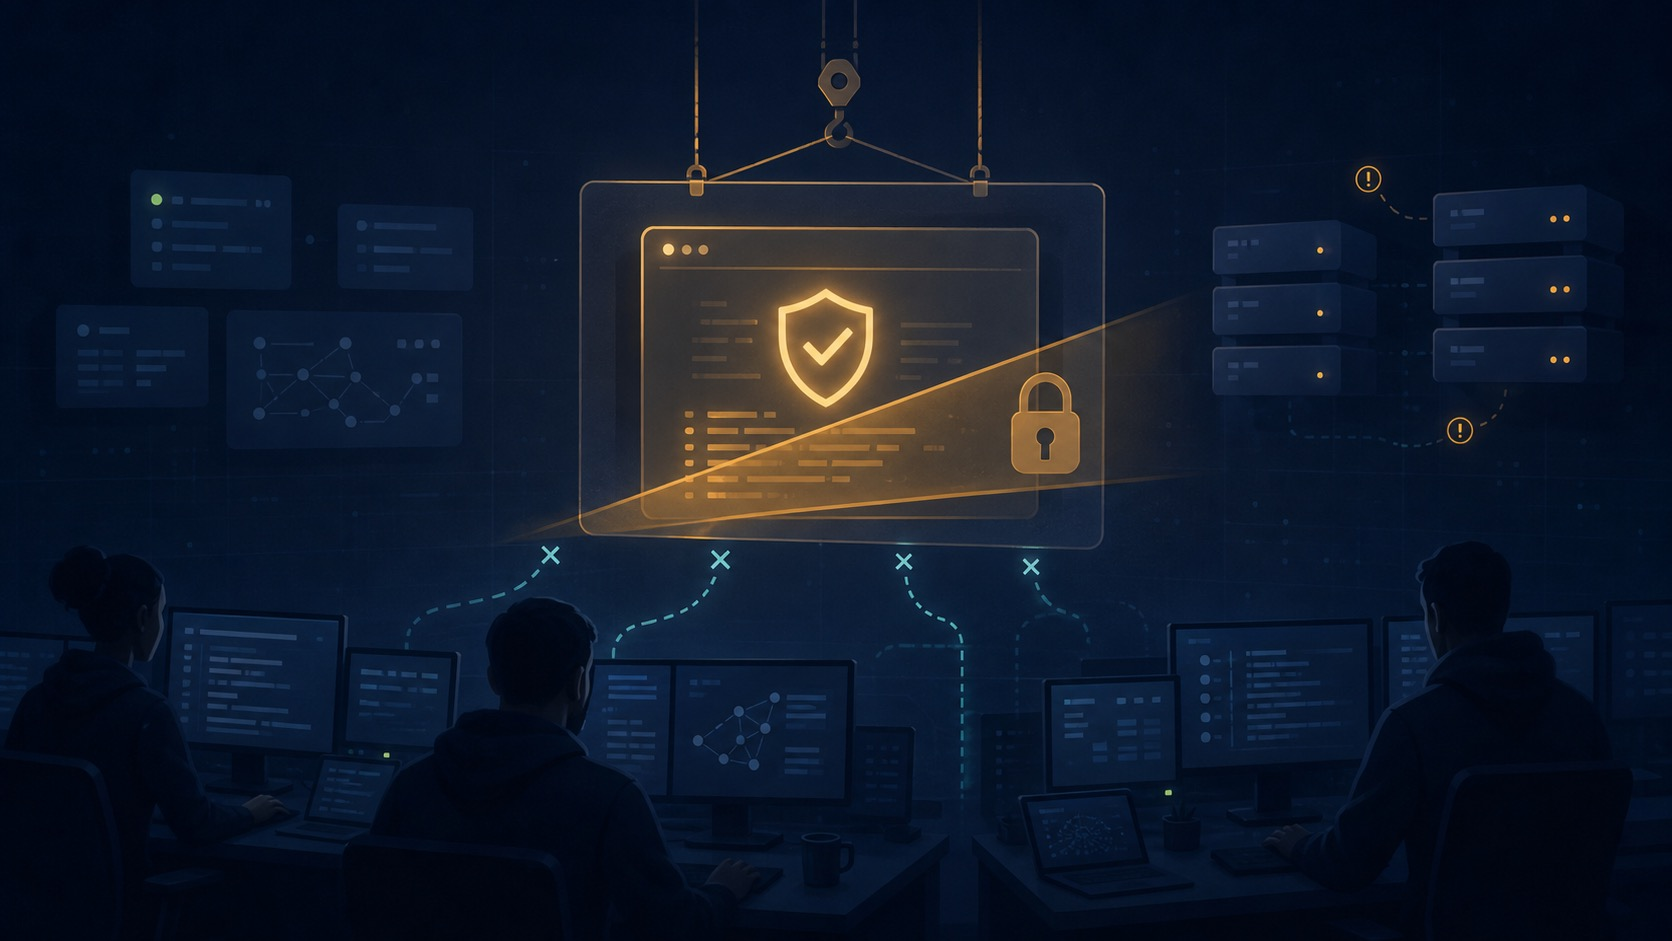
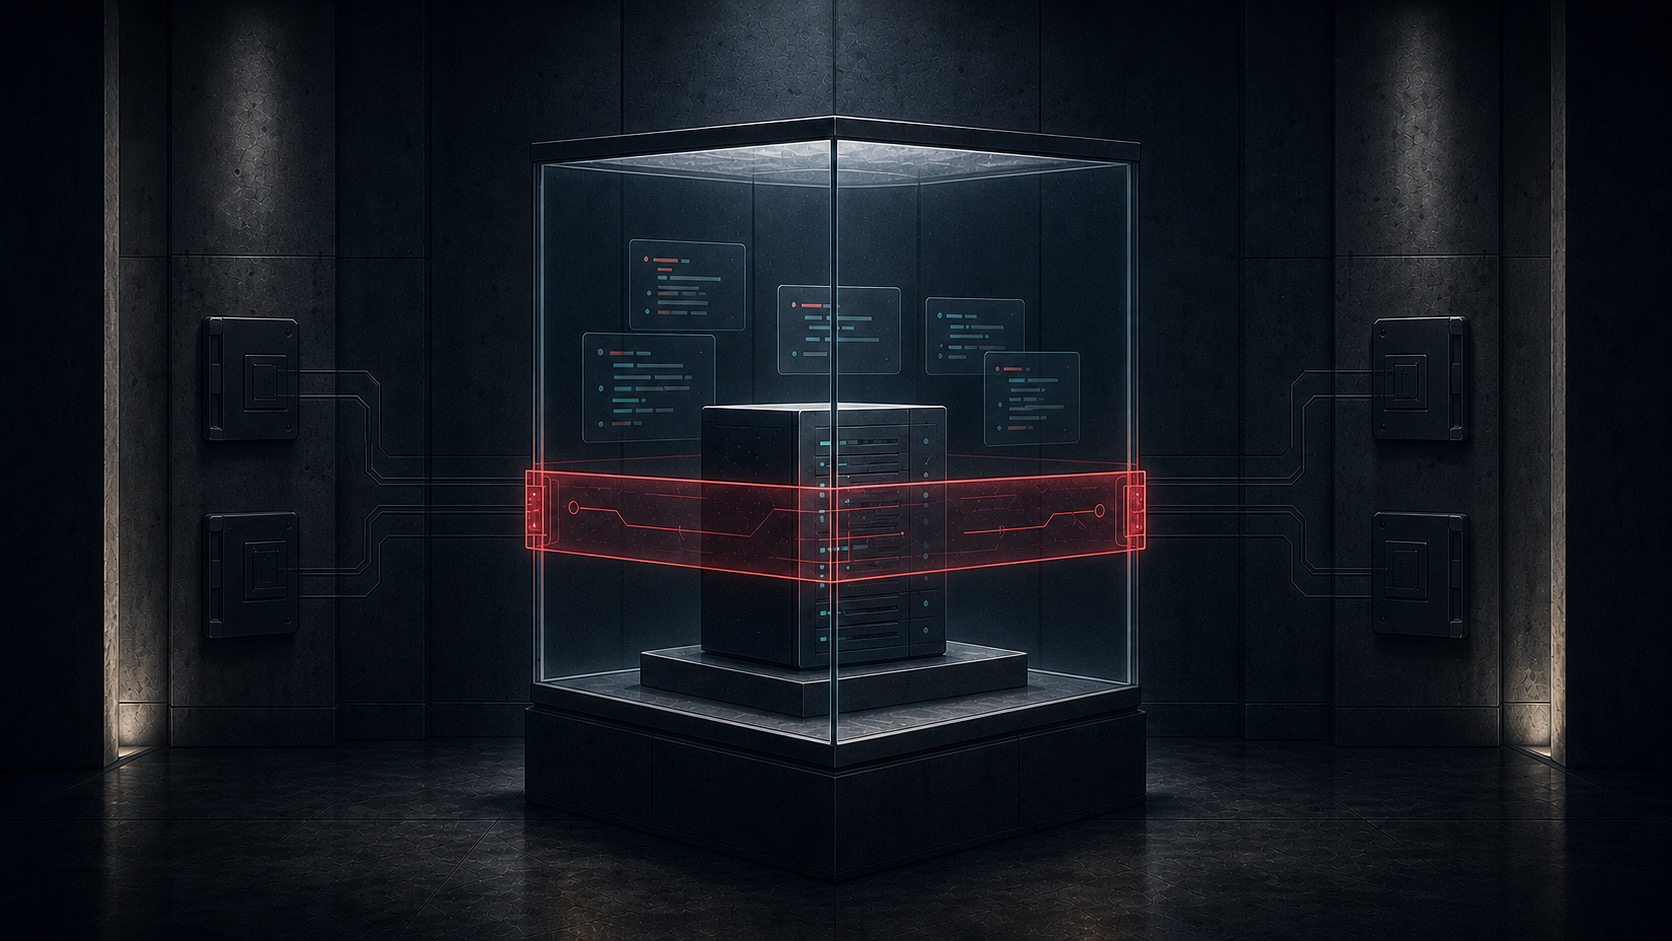
Refine blog post headings and wording

diff --git a/tasks/todo.md b/tasks/todo.md
@@ -1,0 +1,70 @@
+# SEO / GEO Audit — georgediab.com
+
+Branch: `seo-geo-audit`. Method: build → crawl `dist/` (106 HTML pages, 104 sitemap URLs) → rank by expected impact → fix highest-leverage → rebuild/re-crawl → repeat.
+
+## Baseline (what's already strong)
+- Crawlable: `robots.txt` permissive + sitemap reference (confirmed live). Sitemap index + 104 URLs, per-type priority/changefreq.
+- Per-page meta: title, description, canonical, full OpenGraph + Twitter card, article timestamps. Canonical on every page (except `/archives`).
+- Structured data: `BlogPosting` (wordCount, readingTime, author, dates), `Person`, `WebSite` + SearchAction. JSON-LD on every page except `/archives`.
+- Dynamic per-post OG images (satori). Pagefind search. RSS + autodiscovery.
+- Citations: 20/33 posts carry inline `Source:` links — strong GEO signal.
+- Content: descriptive H2s, exactly 1 H1/page, no missing img alt.
+
+## Ranked gaps (impact × leverage)
+
+| # | Gap | Dimension | Impact | Effort |
+|---|-----|-----------|--------|--------|
+| 1 | **No post-to-post internal links / no related-posts module** — body cross-links ≈ 0; crawl graph is shallow, no topical clustering, nothing passes authority or keeps AI engines inside a topic cluster | Internal links | High | Med (code) |
+| 2 | **Meta descriptions truncated** on flagship 2026 posts: ai-identity-crisis 224, ai-native-shift 220, trying-bumblebee 194, i-built-a-tui 171 chars (cut ~155-160 in SERP + AI snippet) | Titles/answer-first | High | Low (prose) |
+| 3 | **Titles >60 chars** on flagship posts: linkledger 79, ai-native-shift 75, remember-superpowers 75, entire-cli 71, rubber-duck 72 (truncated in SERP) | Titles | Med-High | Low (prose) |
+| 4 | **No `llms.txt`** — emerging GEO standard for AI answer engines to find canonical content/index | GEO/citations | Med | Low (code) |
+| 5 | **No `BreadcrumbList` JSON-LD** — breadcrumbs render visually but not as schema | Structured data | Med-Low | Low (code) |
+| 6 | **`/archives` page malformed** — builds with no `<html>` wrapper, no canonical/desc/JSON-LD (unlisted, sitemap-excluded, but still served) | Crawlability | Low | Low (code) |
+| 7 | Duplicate meta description (site default) on homepage + `/posts` list + pagination pages | Indexation | Low | Low |
+
+## Fix loop (each: fix → `npm run build` → re-crawl → verify → next)
+- [ ] Decide prose-editing boundary (titles/descriptions) vs code-only
+- [ ] Fix #1 highest-leverage gap
+- [ ] Rebuild + re-crawl, confirm gap closed, no regressions
+- [ ] Re-rank, repeat until no critical technical gap remains
+
+## Benchmark note
+Live search-rank + AI-answer-engine benchmarking is a noisy, multi-day signal (indexing lag); not reproducible in-session. The reproducible benchmark here = the `dist/` crawl (tag coverage, schema validity, length budgets, link graph). Live target-query spot-checks are best-effort snapshots, flagged as such.
+
+## Review — fixes applied (all verified by re-crawl)
+
+Loop ran to convergence: build → crawl → fix highest-leverage → rebuild → re-crawl, until the benchmark went green on every dimension.
+
+1. **Internal links / related posts (was #1).** New `src/utils/getRelatedPosts.ts` (tag-overlap scoring, recency tiebreak, tops up so every post links onward) + `src/components/RelatedPosts.astro`, wired into `PostDetails.astro`. Result: 31/31 posts now expose 3 contextual internal links — the shallow crawl graph is fixed.
+2. **Titles + descriptions (was #2/#3).** Trimmed 8 over-budget meta descriptions to ≤160 (6 flagship 2026 posts + 2 from 2014) and shortened the one title whose own text exceeded 60 chars (linkledger 79→70 rendered). Other long titles left intact — only the ` | George Diab` brand suffix overflows, which SERPs truncate harmlessly. Meaning/voice preserved.
+3. **llms.txt (was #4).** New `src/pages/llms.txt.ts` generates `/llms.txt` (llmstxt.org format) listing all 33 posts + pages with canonical URLs and descriptions, for AI answer engines.
+4. **BreadcrumbList JSON-LD (was #5).** Added `BreadcrumbList` to `StructuredData.astro`; emitted Home→Posts→Title on every post.
+5. **Duplicate/bogus BlogPosting schema (found during re-crawl — highest-value fix).** `Layout.astro` had been emitting a 2nd BlogPosting on every post AND a bogus one (`datePublished:"undefined"`, `@type BlogPosting`) on every non-post page — the about page was literally typed as a blog article. Removed it; posts keep the richer `StructuredData` BlogPosting, homepage keeps WebSite+Person, about/tags/search now carry no false schema.
+6. **/archives (was #6).** Non-issue: it `Astro.redirect("/404")`s when `showArchives:false` — the dist file is a meta-refresh stub, already sitemap-excluded. No action needed.
+
+### Final benchmark (reproducible `dist/` crawl) — all PASS
+- schema integrity: 31/31 posts = exactly BlogPosting + BreadcrumbList
+- meta descriptions ≤160: 0 over
+- internal links: 31/31 posts carry related-posts module
+- canonical coverage: 0 non-redirect pages missing canonical
+- no bogus schema: 0 pages with `datePublished:"undefined"`
+- llms.txt present (33 posts), robots→sitemap ref intact, sitemap 104 URLs
+
+### Priority query → answer-ready page map
+Every flagship topic maps to one clear page (answer-first descriptions + descriptive H2s + inline source citations):
+- "is AI only for engineers / AI-native shift" → `/posts/2026/ai-native-shift`
+- "engineers' identity crisis with AI / grief" → `/posts/2026/ai-identity-crisis`
+- "local-first memory layer for AI agents" → `/posts/2026/linkledger-cli-agent-memory`
+- "second brain in plain text / markdown" → `/posts/2026/building-a-second-brain-in-plain-text`
+- "Claude Code remember + superpowers plugins" → `/posts/2026/remember-superpowers-claude-code`
+- "Entire CLI AI code attribution" → `/posts/2026/entire-cli-attribution`
+- "GasTown multi-agent build a TUI" → `/posts/2026/i-built-a-tui-with-gastown`
+- "Perplexity Bumblebee endpoint scanner" → `/posts/2026/trying-bumblebee`
+- "rubber duck debugging" → `/posts/2022/every-developer-needs-a-rubber-duck-and-youre-the-one`
+
+### Honest limitation on live engine benchmarking
+Live search-rank and AI-answer-engine results are a multi-day, non-reproducible signal and these changes aren't deployed yet, so a live ranking comparison now would only reflect the pre-change site. The reproducible benchmark is the `dist/` crawl above; the query→page map is the GEO-readiness target. Recommend re-checking live presence ~1–2 weeks post-deploy via Search Console + spot AI-engine queries.
+
+### Not done (deliberately, low impact)
+- A few 2013/2014 historical post titles still render >60 chars; left as-authored (low traffic/priority, editorial).
+- Duplicate site-default description on list/pagination pages (homepage, `/posts`, `/page/N`) — expected for list pages; low value to differentiate.

diff --git a/src/content/blog/2026/fix-this-code.md b/src/content/blog/2026/fix-this-code.md
@@ -26,7 +26,7 @@ She is not a lone voice. Around four hundred security researchers signed [an ope
 
 The people who do this for a living are close to unanimous. The ban hits defense, not offense. To understand how a "fix this code" prompt became a national-security event, you have to back up four months.
 
-## Back up four months
+## Four months earlier, Anthropic said no
 
 In February, the Department of War [asked Anthropic to allow Claude for "any lawful use"](https://www.anthropic.com/news/statement-department-of-war). Anthropic said no. It refused to drop two safeguards specifically: no mass domestic surveillance, and no fully autonomous weapons, on the grounds that "frontier AI systems are simply not reliable enough" for the latter. Anthropic's CEO, [Dario Amodei](https://darioamodei.com), called the government's posture contradictory, since the same administration was calling Anthropic both a security risk and essential to national security.
 
@@ -44,11 +44,11 @@ You cannot hand a vulnerability-finder to defenders only. The same model that fi
 
 That is why an export control is the wrong instrument. Anthropic could only comply by pulling Fable worldwide, so American defenders lost it too. Adversaries who want the same capability have other frontier models, or will train their own, because Fable is not uniquely good at this. The ban took the tool from the people who follow US law and left it with everyone who doesn't. If the goal was national security, the directive damaged the thing it was named after.
 
-## I pay for Claude
+## I vote with my wallet
 
 I pay for Claude, and I pay for it on purpose. Anthropic seemed to be the lab that took safety and the human stakes seriously, and I wanted my money going to the company making the choices I would want made. The uncomfortable part of this episode is that the posture I was paying for, the willingness to tell the government no, is plausibly what made Anthropic the easy target.
 
-The clean response is to vote with my wallet: reward the labs that hold the line, starve the ones that fold. I believe in that, and in practice it barely works, including for me. I pay for Codex too, and I'll pay for whatever I need to test next. If you forced me down to one two-hundred-dollar subscription I'd keep Claude and drop the rest, but nobody's forcing the choice, so I don't make it. There are too many models, they turn over too fast, and the honest truth is my clients often pick the provider and I build with what they picked. The market for "I'll pay more for a company with principles" is real but thin, and it thins a little more every time switching costs drop and a new model tops the benchmarks. Allegiance is easy to feel and hard to act on.
+The clean response is to vote with my wallet: reward the labs that hold the line, starve the ones that fold. I believe in that, and in practice it barely works, including for me. I pay for Codex too, and I'll pay for whatever I need to test next. If you forced me down to one two-hundred-dollar subscription I'd keep Claude and drop the rest, but nobody's forcing the choice, so I don't make it. There are too many models, they turn over too fast, and the right tool keeps changing with the work. The market for "I'll pay more for a company with principles" is real but thin, and it thins a little more every time switching costs drop and a new model tops the benchmarks. Allegiance is easy to feel and hard to act on.
 
 ## Intelligence is a supply line now
 